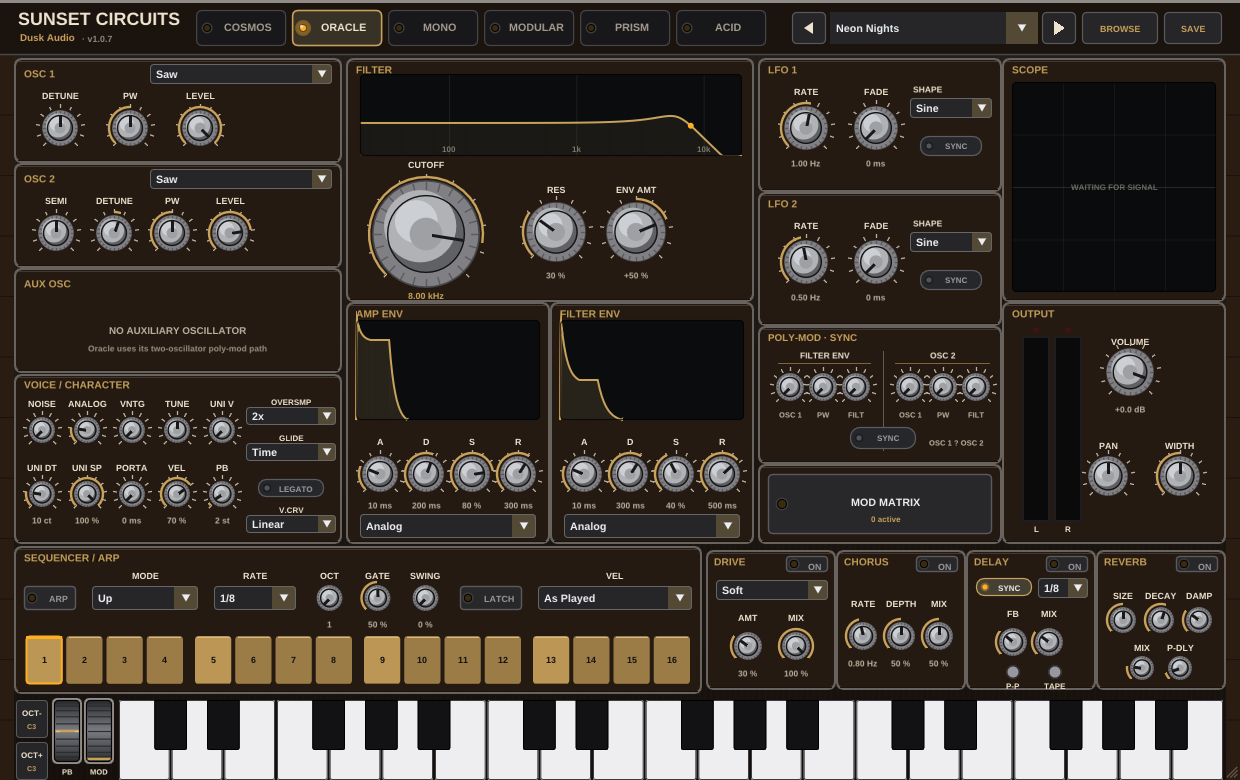
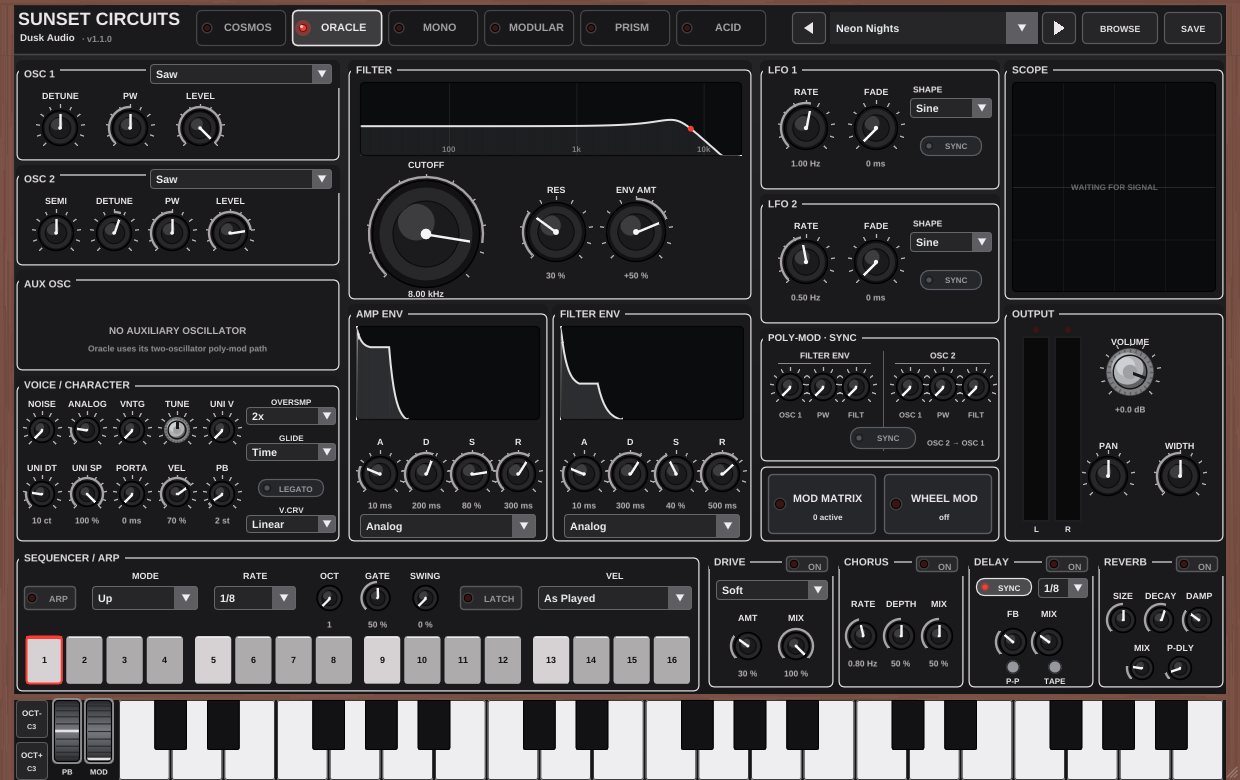
fix(sunset-circuits): Oracle silk boxes clear every control on the face
The Oracle face's silk-screened section boxes (627fcb77) were inset 5 px
into each panel, but the face's controls are laid out against the panel
edge, where the rail was. The box lines ran through the CUTOFF read-out
and 43 other places: the title-row wave menus and FX ON switches, the
VOICE / CHARACTER menus, the envelope R knob scales and "Analog" menus,
the POLY-MOD FILT scale, the DELAY P-P / TAPE labels, the sequencer's
ARP button and step 1, and the MOD MATRIX / WHEEL MOD buttons.

A scan of every silk box against the drawn content (defaults, all
parameters at max and at min, labels and value read-outs, the face at
1.0x and 0.8x, and with the Wheel Mod and mod matrix panels open) found
44 places where a line crossed or touched content; it now finds none.

- Sides and floor of every box run along the panel edge, where the rail
  was, so the controls keep the margins they were laid out with.
  Neighbouring boxes read as separate boxes with the panel gap between
  them. The stroke sits half its width inside the edge, so a knock-out
  that stays inside the panel clears it completely.
- The top line still runs through the title. Controls at the right end
  of a title row (OSC 1 / OSC 2 wave menus, the four FX ON switches)
  are knocked out of it the way the title is (oracleTitleRowGap), down
  to 4 px under the control.
- The launcher bar has no title, so its box closes along the panel's
  top edge (panelBox titled = false) and frames the MOD MATRIX and
[…]

Changed region(s): [[0.0, 0.0, 1.0, 1.0], [0.0613, 0.9538, 0.0919, 0.9846]]

diff --git a/plugins/sunset-circuits/daf-plugin/MultiSynthUI.cpp b/plugins/sunset-circuits/daf-plugin/MultiSynthUI.cpp
@@ -664,8 +664,11 @@ private:
 
     // sheet = false: a modal panel (an overlay), not a section of the face. It keeps
     // its rail in Oracle, so it still reads against the scrim, and gets no silk box.
+    // titled = false: a section with no title (Oracle's launcher bar), whose silk box
+    // closes along the panel's top edge instead of running through a title.
     void panelBox(float x0, float y0, float x1, float y1, float alpha = 1.0f,
-                  ImU32 cosmosBand = 0, float bandHeight = 20.0f, bool sheet = true)
+                  ImU32 cosmosBand = 0, float bandHeight = 20.0f, bool sheet = true,
+                  bool titled = true)
     {
         // The older 3 px bright metal frame gave every nested section the same
         // visual weight. A slimmer, chassis-blended rail keeps the hardware
@@ -686,17 +689,36 @@ private:
             dl->AddRectFilled(P(x0 + 2, y0 + 2), P(x1 - 2, y0 + bandHeight),
                               mulA(cosmosBand, alpha * live.cosmos), 4.0f * s,
                               ImDrawFlags_RoundCornersTop);
-        if (sheet && live.oracle > 0.0f) oracleBox(x0, y0, x1, y1, alpha);
+        if (sheet && live.oracle > 0.0f) oracleBox(x0, y0, x1, y1, alpha, titled);
     }
 
     // Oracle: the panel is part of one black sheet and the section is marked the way
-    // the instrument's panel marks it, by a thin white silk-screened box whose top
-    // line runs through the section title (sectionTitle knocks the title out of it).
-    static constexpr float kSilkInset = 5.0f, kSilkTop = 9.5f;   // title centre line
-    void oracleBox(float x0, float y0, float x1, float y1, float alpha)
+    // the instrument's panel marks it, by a thin white silk-screened box. Its sides
+    // and floor run along the panel's own edge, where the rail was, so the controls
+    // keep the margins they were laid out with; neighbouring boxes read as separate
+    // boxes with the panel gap between them. The stroke sits half its width inside
+    // the edge, which puts its anti-aliased outer edge on the panel edge at every
+    // scale, so a knock-out that stays inside the panel clears it completely. A
+    // titled box's top line runs through the title (sectionTitle knocks the title
+    // out of it, oracleTitleRowGap a control on the title row); an untitled box
+    // closes along the panel's top edge.
+    static constexpr float kSilkW = 1.2f, kSilkTop = 9.5f;   // stroke width, title centre line
+    void oracleBox(float x0, float y0, float x1, float y1, float alpha, bool titled)
     {
-        dl->AddRect(P(x0 + kSilkInset, y0 + kSilkTop), P(x1 - kSilkInset, y1 - kSilkInset),
-                    mulA(kOracleMat.silk, alpha * live.oracle), 4.0f * s, 0, 1.2f * s);
+        const float in = 0.5f * kSilkW;
+        dl->AddRect(P(x0 + in, titled ? y0 + kSilkTop : y0 + in), P(x1 - in, y1 - in),
+                    mulA(kOracleMat.silk, alpha * live.oracle), 5.0f * s, 0, kSilkW * s);
+    }
+    // A control at the right end of a section's title row (a wave menu, an ON switch)
+    // sits in the silk box's top line the way the title does (Oracle only). It runs
+    // to the panel's right edge, so the knock-out takes the box's top-right corner
+    // with it, down to 4 px under the control, and keeps the panel's own corner
+    // rounding so it never paints outside the panel.
+    void oracleTitleRowGap(float cx0, float cy1, float panelY0, float panelX1)
+    {
+        if (live.oracle <= 0.0f) return;
+        dl->AddRectFilled(P(cx0 - 4.0f, panelY0), P(panelX1, cy1 + 4.0f),
+                          mulA(live.panel, live.oracle), 6.0f * s, ImDrawFlags_RoundCornersTopRight);
     }
     // Knock a title out of the silk-screen box's top line (Oracle only).
     void oracleTitleGap(float x, float y, float sz, const char* t, float alpha = 1.0f)
@@ -1949,6 +1971,7 @@ private:
         // X-MOD here as well exposed two controls for effectively the same route.
         panelBox(16, g1.y0, 340, g1.y1, 1.0f, kCosmosRed, 26.0f);
         sectionTitle(24, g1.rowY + 4.0f, "OSC 1");
+        oracleTitleRowGap(150, g1.comboY1, g1.y0, 340);
         comboBox("o1w", kParamOsc1Wave, 150, g1.rowY, 332, g1.comboY1, kWave5, 5, curMode == 5);
         klabel(60, g1.labelY, "DETUNE");
         if (curMode == 5)
@@ -2001,6 +2024,7 @@ private:
             }
             else
             {
+                oracleTitleRowGap(150, g2.comboY1, g2.y0, 340);
                 comboBox("o2w", kParamOsc2Wave, 150, g2.rowY, 332, g2.comboY1,
                          kWave5, 5);
                 klabel(56, g2.labelY, "SEMI");
@@ -2204,7 +2228,10 @@ private:
         const float fc = values[kParamFilterCutoff];
         if (fc >= 1000.0f) std::snprintf(rb, sizeof rb, "%.2f kHz", fc / 1000.0f);
         else               std::snprintf(rb, sizeof rb, "%.0f Hz", fc);
-        text(426, 290, 10.0f, live.accent, rb, 0, true);
+        // Oracle's silk box floor runs along the panel's bottom edge, which this
+        // read-out's ink reaches; there it rides 2 px higher (blended by the Oracle
+        // weight, so it does not move in any other mode).
+        text(426, 290.0f - 2.0f * live.oracle, 10.0f, live.accent, rb, 0, true);
 
         // RES / ENV AMT / HP all carry a permanent read-out (y 270, clear of the 297
         // panel floor): they are the row you ride while playing.
@@ -3022,7 +3049,7 @@ private:
 
         // Panel extended 518 -> 542 (+24 lower-body shift); the clickable button grows
         // vertically, centred in the taller panel (mid 504).
-        panelBox(760, 466, 1000, 542);
+        panelBox(760, 466, 1000, 542, 1.0f, 0, 20.0f, /*sheet*/ true, /*titled*/ false);
         if (curMode == 1) { drawOracleModLaunchers(); return; }
         const ImVec2 b0 = P(768, 474), b1 = P(992, 534);
         ImGui::SetCursorScreenPos(b0);
@@ -4450,6 +4477,7 @@ private:
         panelBox(708, 552, 834, 688);
         sectionTitle(714, 556, "DRIVE");
         const bool acid = (curMode == 5);
+        oracleTitleRowGap(786, 572, 552, 834);
         ledButton("drvon", kParamDriveOn, 786, 556, 828, 572,
                   acid ? "FX" : "ON");
         if (acid)
@@ -4472,6 +4500,7 @@ private:
         // (845.8 >= 844, 956.2 <= 958) and each neighbor by 3.6 px.
         panelBox(838, 552, 964, 688);
         sectionTitle(844, 556, "CHORUS");
+        oracleTitleRowGap(916, 572, 552, 964);
         ledButton("choon", kParamChorusOn, 916, 556, 958, 572, "ON");
         klabel(863, 598, "RATE");  knob("chorate", kParamChorusRate, 863, 636, 14, "%.2f", " Hz", false, false, ro, 1.0f, 0.0f, false);
         klabel(901, 598, "DEPTH"); knob("chodep", kParamChorusDepth, 901, 636, 14, "%.0f", " %", false, false, ro, 100.0f, 0.0f, false);
@@ -4481,9 +4510,10 @@ private:
         // end at y=606 with the FB label starting at 598 UNDER it): SYNC + the
         // context DIV combo share the top row (578..598); the knob row (labels
         // 608, centres 642) holds FB+MIX when synced or TIME+FB+MIX when free;
-        // P-P and TAPE ride a bottom row of their own (664..680).
+        // P-P and TAPE ride a bottom row of their own (664..680, 5 px higher in Oracle).
         panelBox(968, 552, 1094, 688);
         sectionTitle(974, 556, "DELAY");
+        oracleTitleRowGap(1046, 572, 552, 1094);
         ledButton("dlyon", kParamDelayOn, 1046, 556, 1088, 572, "ON");
         const bool sync = values[kParamDelaySync] > 0.5f;
         compactToggle("dlysync", kParamDelaySync, 976, 578, 1032, 596, "SYNC");
@@ -4508,8 +4538,12 @@ private:
             klabelOrValue(1069, 608, "MIX", dro, kParamDelayMix, "%.0f", " %", 100.0f);
             knob("dlymix", kParamDelayMix, 1069, 642, 14, "%.0f", " %", false, false, false, 100.0f, 0.0f, false);
         }
-        ledButton("dlypp", kParamDelayPP, 995, 664, 1031, 680, "P-P", true);
-        ledButton("dlytape", kParamDelayTape, 1037, 664, 1073, 680, "TAPE", true);
+        // The labels under P-P and TAPE reach the panel floor, where Oracle's silk box
+        // runs; there the row rides 5 px higher (blended by the Oracle weight, so it
+        // does not move in any other mode).
+        const float ppY = 664.0f - 5.0f * live.oracle;
+        ledButton("dlypp", kParamDelayPP, 995, ppY, 1031, ppY + 16.0f, "P-P", true);
+        ledButton("dlytape", kParamDelayTape, 1037, ppY, 1073, ppY + 16.0f, "TAPE", true);
 
         // Reverb — aligned two-row grid: SIZE/DECAY/DAMP r13 (labels 590, centres
         // 620), MIX/P-DLY r12 (labels 642, centres 668); row-2 label ink (..649.6)
@@ -4517,6 +4551,7 @@ private:
         // and the row-2 knob bottoms (683.2) clear the inner floor (685).
         panelBox(1098, 552, 1224, 688);
         sectionTitle(1104, 556, "REVERB");
+        oracleTitleRowGap(1176, 572, 552, 1224);
         ledButton("rvbon", kParamReverbOn, 1176, 556, 1218, 572, "ON");
         // Modular auto-engages a separate spring reverb at a fixed 15% mix. Say so
         // explicitly: the five visible knobs still control the normal reverb.

diff --git a/manuals/screenshots/sunset-circuits/README.md b/manuals/screenshots/sunset-circuits/README.md
@@ -16,4 +16,4 @@ the default 1240 × 780 window size, starting from the factory preset "Neon Nigh
 | `05-mode-prism.png` | Prism. The left column becomes the four-operator matrix, each operator with ratio, fine, level, velocity, key scaling and its own envelope; operator 4 carries feedback. The ALGORITHM sub-panel lists the eight routings with a diagram of the active one. |
 | `06-mode-acid.png` | Acid. Silver panel with orange accents, single-oscillator engine with Osc 2 bypassed, the ACID ENGINE signal-path diagram, accent and slide controls, and the pattern sequencer with its Gate, Pitch, Acc and Slide lanes. |
 | `07-preset-browser.png` | The preset browser, a grid of preset cards with mode and bank badges, search, and mode and bank filters. |
-| `08-wheel-mod.png` | Oracle's WHEEL MOD section, opened over the panel, set up for mod-wheel vibrato: triangle LFO at 5.4 Hz, the mix at LFO, Upper 10 percent and Lower 2 percent on the depth rail, Freq A and Freq B on. Captured on macOS with the AU view probe at 1240 x 780 rather than from the CLAP editor on X11; the panel is drawn by the same code either way. |
+| `08-wheel-mod.png` | Oracle's WHEEL MOD section, opened over the panel, set up for mod-wheel vibrato: triangle LFO at 5.4 Hz, the mix at LFO, Upper 10 percent and Lower 2 percent on the depth rail, Freq A and Freq B on. |
